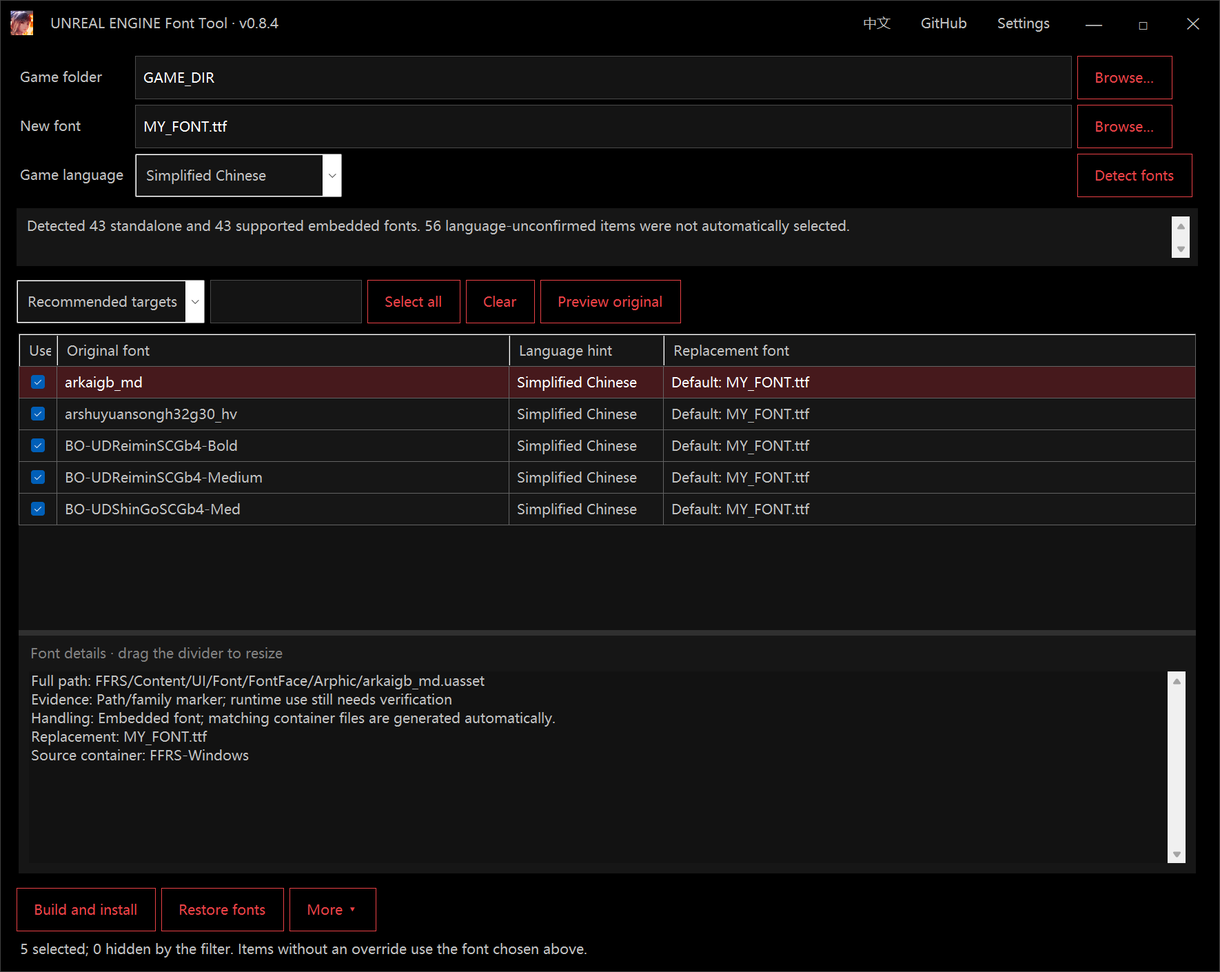
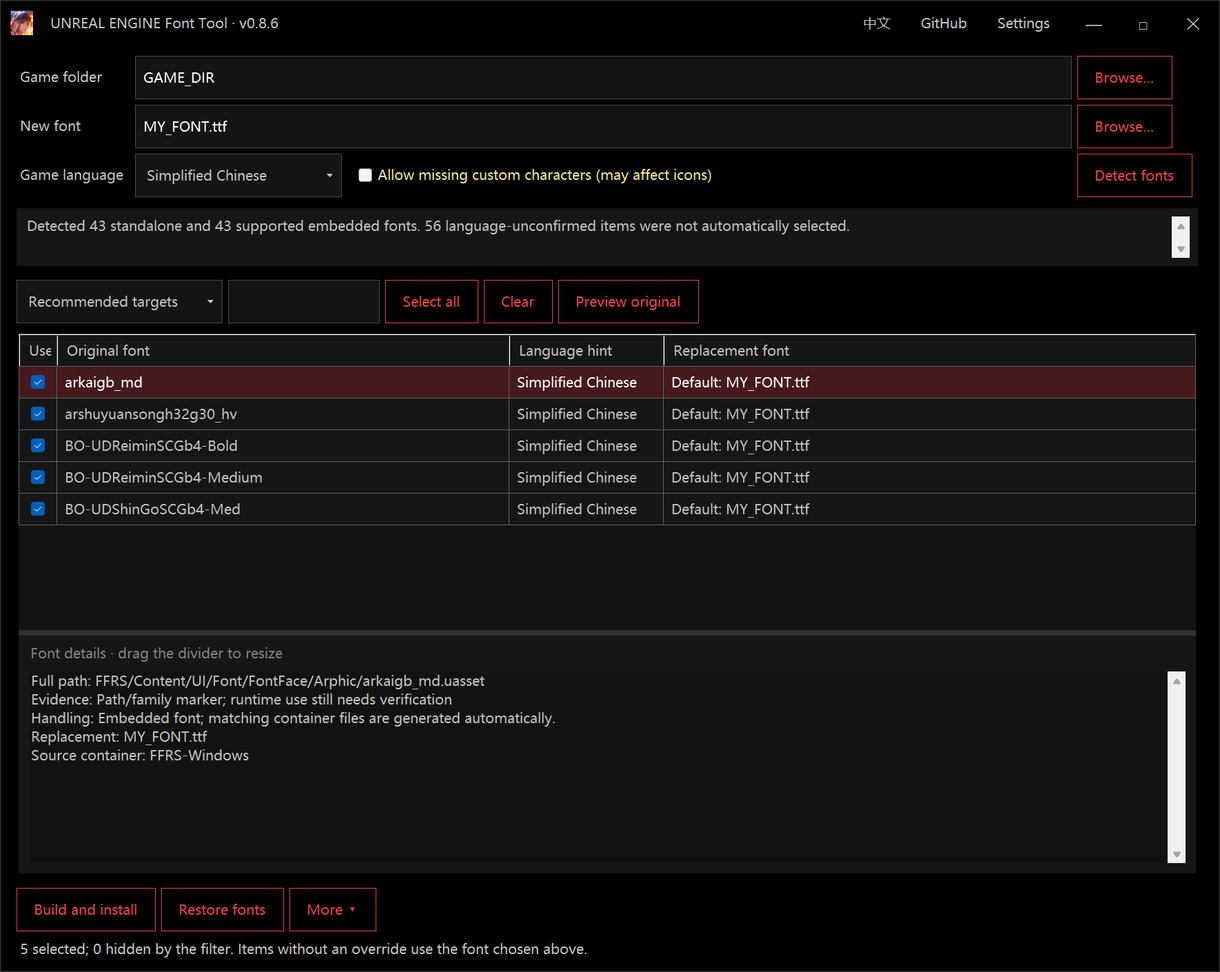
Expose beginner glyph-loss handling and unify dark dropdown controls

diff --git a/UEFontTool/GuidedLayout.cs b/UEFontTool/GuidedLayout.cs
@@ -31,7 +31,8 @@ public sealed partial class GuidedForm
         var inputs=new TableLayoutPanel{Dock=DockStyle.Fill,AutoSize=true,ColumnCount=3,RowCount=3,Margin=new Padding(0,0,0,8)};inputs.ColumnStyles.Add(new ColumnStyle(SizeType.AutoSize));inputs.ColumnStyles.Add(new ColumnStyle(SizeType.Percent,100));inputs.ColumnStyles.Add(new ColumnStyle(SizeType.AutoSize));
         for(int i=0;i<3;i++)inputs.RowStyles.Add(new RowStyle(SizeType.AutoSize));
         foreach(var label in new[]{gameLabel,fontLabel,langLabel}){label.AutoSize=true;label.Dock=DockStyle.None;label.Anchor=AnchorStyles.Left;label.Margin=new Padding(0,6,10,8);}
-        game.Dock=font.Dock=DockStyle.Fill;inputs.Controls.Add(gameLabel,0,0);inputs.Controls.Add(game,1,0);inputs.Controls.Add(gamePick,2,0);inputs.Controls.Add(fontLabel,0,1);inputs.Controls.Add(font,1,1);inputs.Controls.Add(fontPick,2,1);inputs.Controls.Add(langLabel,0,2);language.Width=300;language.Anchor=AnchorStyles.Left;inputs.Controls.Add(language,1,2);inputs.Controls.Add(analyze,2,2);root.Controls.Add(inputs,0,1);
+        game.Dock=font.Dock=DockStyle.Fill;inputs.Controls.Add(gameLabel,0,0);inputs.Controls.Add(game,1,0);inputs.Controls.Add(gamePick,2,0);inputs.Controls.Add(fontLabel,0,1);inputs.Controls.Add(font,1,1);inputs.Controls.Add(fontPick,2,1);inputs.Controls.Add(langLabel,0,2);language.Width=300;language.Anchor=AnchorStyles.Left;
+        var languageOptions=new FlowLayoutPanel{Dock=DockStyle.Fill,AutoSize=true,WrapContents=true,Margin=Padding.Empty};allowSymbols.Margin=new Padding(16,4,8,4);languageOptions.Controls.Add(language);languageOptions.Controls.Add(allowSymbols);inputs.Controls.Add(languageOptions,1,2);inputs.Controls.Add(analyze,2,2);root.Controls.Add(inputs,0,1);
         var statusPanel=new Panel{Dock=DockStyle.Fill,Padding=new Padding(12),BackColor=PanelColor,Margin=new Padding(0,4,0,8)};summary.Margin=Padding.Empty;statusPanel.Controls.Add(summary);root.Controls.Add(statusPanel,0,2);
         var toolbar=new FlowLayoutPanel{AutoSize=true,Dock=DockStyle.Fill,WrapContents=true,Margin=new Padding(0,8,0,8)};view.Width=260;search.Width=220;search.PlaceholderText=T("搜索字体","Search fonts");toolbar.Controls.AddRange(new Control[]{view,search,all,none,preview});root.Controls.Add(toolbar,0,3);
         grid.EnableHeadersVisualStyles=false;grid.ColumnHeadersDefaultCellStyle.BackColor=PanelColor;grid.ColumnHeadersDefaultCellStyle.ForeColor=Color.Silver;grid.DefaultCellStyle.BackColor=PanelColor;grid.DefaultCellStyle.ForeColor=Color.Silver;grid.DefaultCellStyle.SelectionBackColor=Color.FromArgb(70,25,28);grid.DefaultCellStyle.SelectionForeColor=Color.White;grid.DefaultCellStyle.WrapMode=DataGridViewTriState.True;
@@ -56,6 +57,7 @@ public sealed partial class GuidedForm
         int height=Math.Max(DeviceDpi*42/96,gamePick.Font.Height+16);
         foreach(var button in new[]{gamePick,fontPick,analyze,build,restoreFonts,moreActions,all,none,preview}){button.MinimumSize=new Size(button.MinimumSize.Width,height);button.Height=height;}
         foreach(var input in new[]{game,font,search}){input.MinimumSize=new Size(input.MinimumSize.Width,height);input.Height=height;}
+        allowSymbols.MinimumSize=new Size(0,height);
     }
     protected override void OnDpiChanged(DpiChangedEventArgs e){base.OnDpiChanged(e);if(Visible)AlignFieldHeights();}
     void ShowSettings()
@@ -64,15 +66,14 @@ public sealed partial class GuidedForm
         var table=new TableLayoutPanel{Dock=DockStyle.Fill,AutoScroll=true,Padding=new Padding(20),ColumnCount=2};table.ColumnStyles.Add(new ColumnStyle(SizeType.AutoSize));table.ColumnStyles.Add(new ColumnStyle(SizeType.Percent,100));dialog.Controls.Add(table);
         var input=Input();input.Text=key.Text;input.UseSystemPasswordChar=true;var versions=Combo();versions.Items.Add(T("自动检测","Automatic"));versions.Items.AddRange(GuideHints.EngineVersions);versions.SelectedIndex=engine.SelectedIndex;var name=Input();name.Text=modName.Text;
         var labels=zh?new[]{"AES 密钥（需要时）","引擎版本","输出名称"}:new[]{"AES key (if required)","Engine version","Mod name"};Control[] fields={input,versions,name};for(int i=0;i<3;i++){table.RowStyles.Add(new RowStyle(SizeType.AutoSize));var label=new Label{Text=labels[i],AutoSize=true,Anchor=AnchorStyles.Left,Margin=new Padding(0,6,12,8)};if(fields[i] is FontInput field)field.FieldName=labels[i];table.Controls.Add(label,0,i);fields[i].Dock=DockStyle.Fill;table.Controls.Add(fields[i],1,i);}
-        var risk=new CheckBox{Text=T("允许缺少特殊字符（可能影响图标）","Allow missing custom characters (may affect icons)"),Checked=allowSymbols.Checked,AutoSize=true,Margin=new Padding(0,10,0,10)};table.RowStyles.Add(new RowStyle(SizeType.AutoSize));table.Controls.Add(risk,0,3);table.SetColumnSpan(risk,2);
-        var note=new Label{Text=T("通常保持自动即可。密钥仅用于本次会话，不保存到文件。","Usually keep Automatic. Keys are session-only and are not saved."),AutoSize=true,MaximumSize=new Size(650,0)};table.RowStyles.Add(new RowStyle(SizeType.AutoSize));table.Controls.Add(note,0,4);table.SetColumnSpan(note,2);
-        var save=Button();save.Text=T("应用","Apply");table.RowStyles.Add(new RowStyle(SizeType.AutoSize));table.Controls.Add(save,1,5);save.Click+=(_,_)=>{try{PakTools.Keys(input.Text.Trim());IoStoreFonts.Name(name.Text.Trim());key.Text=input.Text.Trim();engine.SelectedIndex=versions.SelectedIndex;modName.Text=name.Text.Trim();allowSymbols.Checked=risk.Checked;dialog.DialogResult=DialogResult.OK;}catch(Exception ex){MessageBox.Show(dialog,ex.Message);}};dialog.AcceptButton=save;dialog.SetCaptionLanguage(zh);dialog.ShowDialog(this);input.Clear();
+        var note=new Label{Text=T("通常保持自动即可。密钥仅用于本次会话，不保存到文件。缺字选项位于主界面“游戏语言”右侧。","Usually keep Automatic. Keys are session-only. The character-loss option is beside Game language in the main window."),AutoSize=true,MaximumSize=new Size(650,0)};table.RowStyles.Add(new RowStyle(SizeType.AutoSize));table.Controls.Add(note,0,3);table.SetColumnSpan(note,2);
+        var save=Button();save.Text=T("应用","Apply");table.RowStyles.Add(new RowStyle(SizeType.AutoSize));table.Controls.Add(save,1,4);save.Click+=(_,_)=>{try{PakTools.Keys(input.Text.Trim());IoStoreFonts.Name(name.Text.Trim());key.Text=input.Text.Trim();engine.SelectedIndex=versions.SelectedIndex;modName.Text=name.Text.Trim();dialog.DialogResult=DialogResult.OK;}catch(Exception ex){MessageBox.Show(dialog,ex.Message);}};dialog.AcceptButton=save;dialog.SetCaptionLanguage(zh);dialog.ShowDialog(this);input.Clear();
     }
     ContextMenuStrip? ownedMoreMenu;
     ContextMenuStrip GetMoreMenu()
     {
         if(ownedMoreMenu!=null)return ownedMoreMenu;
-        var menu=new ContextMenuStrip{BackColor=Color.Black,ForeColor=Color.Silver,Font=Font,Renderer=new ToolStripProfessionalRenderer(new FontMenuColors())};ownedMoreMenu=menu;
+        var menu=new ContextMenuStrip{BackColor=Color.Black,ForeColor=Color.Silver,Font=Font,ShowImageMargin=false,ShowCheckMargin=false,Renderer=new ToolStripProfessionalRenderer(new FontMenuColors())};ownedMoreMenu=menu;
         void Add(Action action){menu.Items.Add("",null,(_,_)=>{if(!IsDisposed&&!Disposing)BeginInvoke(new Action(()=>{if(IsDisposed||Disposing)return;try{action();}catch(Exception ex){ReportFailure(ex,game.Text.Trim(),"more");}}));});}
         Add(()=>{installAfterBuild=false;Build();});Add(()=>{if(output!=null)Process.Start(new ProcessStartInfo(output){UseShellExecute=true});});Add(ShowDiagnostics);Add(()=>ChooseFont(p=>{foreach(var t in targets.Where(t=>t.Selected))t.FontOverride=p;Fill();}));Add(()=>{foreach(var t in targets.Where(t=>t.Selected))t.FontOverride=null;Fill();});Add(()=>{using var form=new MainForm();form.ShowDialog(this);});
         return menu;

diff --git a/UEFontTool/GuidedForm.cs b/UEFontTool/GuidedForm.cs
@@ -28,10 +28,10 @@ public sealed partial class GuidedForm : DarkWindow
     void ChooseFont(Action<string> apply){using var d=new OpenFileDialog{Filter="TTF / OTF|*.ttf;*.otf"};if(d.ShowDialog(this)==DialogResult.OK)apply(d.FileName);}
     void Localize()
     {
-        filling=true;int l=language.SelectedIndex<0?0:language.SelectedIndex,v=view.SelectedIndex<0?0:view.SelectedIndex;language.Items.Clear();language.Items.AddRange(zh?new object[]{"简体中文","繁體中文","英文"}:new object[]{"Simplified Chinese","Traditional Chinese","English"});language.SelectedIndex=l;view.Items.Clear();view.Items.AddRange(zh?new object[]{"推荐替换项","全部游戏字体","语言待确认","引擎 / 回退字体"}:new object[]{"Recommended targets","All game fonts","Language unconfirmed","Engine / fallback fonts"});view.SelectedIndex=v;view.Width=Math.Max(230,view.Items.Cast<string>().Max(text=>TextRenderer.MeasureText(text,view.Font).Width)+40);view.DropDownWidth=view.Width;filling=false;
+        filling=true;int l=language.SelectedIndex<0?0:language.SelectedIndex,v=view.SelectedIndex<0?0:view.SelectedIndex;language.Items.Clear();language.Items.AddRange(zh?new object[]{"简体中文","繁體中文","英文"}:new object[]{"Simplified Chinese","Traditional Chinese","English"});language.SelectedIndex=l;view.Items.Clear();view.Items.AddRange(zh?new object[]{"推荐替换项","全部游戏字体","语言待确认","引擎 / 回退字体"}:new object[]{"Recommended targets","All game fonts","Language unconfirmed","Engine / fallback fonts"});view.SelectedIndex=v;view.Width=Math.Max(250,view.Items.Cast<string>().Max(text=>TextRenderer.MeasureText(text,view.Font).Width)+Math.Max(64,DeviceDpi*44/96));view.DropDownWidth=view.Width;filling=false;
         SetCaptionLanguage(zh);detailsHeading.Text=T("字体详情 · 拖动上方分隔条可调整高度","Font details · drag the divider to resize");search.PlaceholderText=T("搜索字体","Search fonts");languageMenu.Text=T("English","中文");gameLabel.Text=T("游戏目录","Game folder");fontLabel.Text=T("新字体","New font");langLabel.Text=T("游戏语言","Game language");game.FieldName=gameLabel.Text;font.FieldName=fontLabel.Text;search.FieldName=T("搜索字体","Search fonts");gamePick.Text=fontPick.Text=T("浏览…","Browse…");analyze.Text=T("检测字体","Detect fonts");settingsMenu.Text=T("设置","Settings");restoreFonts.Text=T("还原字体","Restore fonts");moreActions.Text=T("更多操作 ▾","More ▾");
         all.Text=T("全选","Select all");none.Text=T("清空","Clear");build.Text=T("生成并安装","Build and install");
-        allowSymbols.Text=T("允许缺少特殊字形（可能影响图标）","Allow missing custom symbols (may affect icons)");preview.Text=T("预览原字体","Preview original");string[] headers=zh?new[]{"✓","原字体名称","语言识别","处理方式","将使用的新字体"}:new[]{"Use","Original font","Language hint","Handling","Replacement font"};for(int i=0;i<headers.Length;i++)grid.Columns[i].HeaderText=headers[i];grid.Columns[2].Width=zh?185:Math.Max(220,TextRenderer.MeasureText("Traditional Chinese",grid.Font).Width+32);if(Visible)AlignFieldHeights();RefreshSummary();Fill();
+        allowSymbols.Text=T("允许缺少特殊字符（可能影响图标）","Allow missing custom characters (may affect icons)");preview.Text=T("预览原字体","Preview original");string[] headers=zh?new[]{"✓","原字体名称","语言识别","处理方式","将使用的新字体"}:new[]{"Use","Original font","Language hint","Handling","Replacement font"};for(int i=0;i<headers.Length;i++)grid.Columns[i].HeaderText=headers[i];grid.Columns[2].Width=zh?185:Math.Max(220,TextRenderer.MeasureText("Traditional Chinese",grid.Font).Width+32);if(Visible)AlignFieldHeights();RefreshSummary();Fill();
     }
     void InvalidateAnalysis(){if(busy)return;scan=null;targets.Clear();cookedFolder=null;detectedVersion=null;hasAnalyzed=false;partial=false;problem=null;diagnosticText="";engineNote.Text="";allowSymbols.Checked=false;output=null;Fill();RefreshSummary();}
     void MarkAlternatives(){var embedded=targets.Where(t=>t.Inline).Select(t=>Path.ChangeExtension(t.Path,null)).ToHashSet(StringComparer.OrdinalIgnoreCase);foreach(var t in targets)t.AlternativeData=!t.Inline&&embedded.Contains(Path.ChangeExtension(t.Path,null));}
@@ -56,7 +56,7 @@ public sealed partial class GuidedForm : DarkWindow
         if(busy)return;summary.ForeColor=problem!=null?Color.Khaki:Color.Silver;summary.Text=problem??(!hasAnalyzed?T("选择游戏和新字体，再点击“检测字体”。文件格式由工具自动处理。","Choose a game and font, then Detect fonts. Packaging is automatic."):T($"已检测：{targets.Count(t=>!t.Inline)} 项普通字体，{targets.Count(t=>t.Inline)} 项可处理的封装字体。{targets.Count(t=>!t.Engine&&t.Language.Languages==Languages.None)} 项语言待确认（未自动勾选）。",$"Detected {targets.Count(t=>!t.Inline)} standalone and {targets.Count(t=>t.Inline)} supported embedded fonts. {targets.Count(t=>!t.Engine&&t.Language.Languages==Languages.None)} language-unconfirmed items were not automatically selected.")+(partial?Environment.NewLine+T("部分资源未能识别，请在“更多操作”查看检测详情。","Some resources were not inspected; see More → Detection details."):""));
         if(problem==null&&hasAnalyzed&&!targets.Any(t=>t.Recommended))summary.Text=T("未找到当前语言的可靠推荐。请切换“语言待确认”预览原字体，或查看“全部游戏字体”；有些游戏简繁共用，需手动确认。","No reliable recommendations for this language. Review Language unconfirmed or All game fonts and preview originals; some games share Chinese fonts.")+(partial?Environment.NewLine+T("另有部分资源未能识别，请查看检测详情。","Some resources could not be inspected; see Detection details."):"");
     }
-    void SetBusy(bool value){busy=value;UseWaitCursor=value;languageMenu.Enabled=githubMenu.Enabled=settingsMenu.Enabled=!value;foreach(var c in new Control[]{game,font,gamePick,fontPick,language,analyze,advancedToggle,advanced,view,search,all,none,grid,custom,reset,toggleLanguage,preview,restoreFonts,moreActions})c.Enabled=!value;UpdateSelection();}
+    void SetBusy(bool value){busy=value;UseWaitCursor=value;languageMenu.Enabled=githubMenu.Enabled=settingsMenu.Enabled=!value;foreach(var c in new Control[]{game,font,gamePick,fontPick,language,allowSymbols,analyze,advancedToggle,advanced,view,search,all,none,grid,custom,reset,toggleLanguage,preview,restoreFonts,moreActions})c.Enabled=!value;UpdateSelection();}
     async void PreviewOriginal()
     {
         if(busy||scan==null||grid.CurrentRow?.Tag is not GuideTarget target){details.Text=T("请先检测字体，再点击列表中的一项。","Analyze first, then click a font in the list.");return;}

diff --git a/UEFontTool/GuidedOperations.cs b/UEFontTool/GuidedOperations.cs
@@ -36,8 +36,8 @@ public sealed partial class GuidedForm
     {
         string Redact(string value)=>System.Text.RegularExpressions.Regex.Replace(value,@"(?i)(?:0x)?(?<!\w)[a-f0-9]{64}(?!\w)","[redacted]");
         diagnosticText=Redact($"{DateTimeOffset.Now:O}\r\nGame: {root}\r\nPhase: {phase}\r\n\r\n{error}");
-        summary.Text=error.Message.Contains("private-use",StringComparison.OrdinalIgnoreCase)?T("新字体缺少特殊字符。请换字体，或在“设置”确认允许缺失后重试。","Custom characters are missing. Choose another font or explicitly allow the loss in Settings."):T("操作未完成：","Operation incomplete: ")+Redact(error.Message).Split(new[]{'\r','\n'},StringSplitOptions.RemoveEmptyEntries).FirstOrDefault();
-        problem=summary.Text;summary.ForeColor=Color.Khaki;detailsHeading.Text=T("本次操作错误 · 完整详情","Operation error · full details");details.Text=diagnosticText;
+        summary.Text=error is PrivateUseGlyphLossException missing?T($"{missing.FontName}：新字体缺少 {missing.Codepoints.Length} 个特殊字符。无需专家模式；可取消此项、换字体，或勾选“游戏语言”右侧的“允许缺少特殊字符”后重试。",$"{missing.FontName}: {missing.Codepoints.Length} custom characters are missing. No Expert mode required: uncheck it, choose another font, or allow the loss beside Game language."):error.Message.Contains("private-use",StringComparison.OrdinalIgnoreCase)?T("新字体缺少特殊字符。无需专家模式；可取消该项、换字体，或勾选“游戏语言”右侧的“允许缺少特殊字符”后重试。","Custom characters are missing. No Expert mode required: uncheck this target, choose another font, or allow the loss beside Game language."):T("操作未完成：","Operation incomplete: ")+Redact(error.Message).Split(new[]{'\r','\n'},StringSplitOptions.RemoveEmptyEntries).FirstOrDefault();
+        problem=summary.Text;summary.ForeColor=Color.Khaki;detailsHeading.Text=error is PrivateUseGlyphLossException?T("缺字处理 · 无需专家模式","Missing characters · no Expert mode required"):T("本次操作错误 · 完整详情","Operation error · full details");details.Text=error is PrivateUseGlyphLossException?error.Message:diagnosticText;
         try{Directory.CreateDirectory(FontService.DataRoot);File.WriteAllText(Path.Combine(FontService.DataRoot,"last-error.txt"),diagnosticText);}catch(IOException){}catch(UnauthorizedAccessException){}
     }
     internal async Task<bool> TestBuildWorkflow(string root,string replacement,string report,bool allowSymbolLoss)
@@ -45,5 +45,10 @@ public sealed partial class GuidedForm
         game.Text=root;font.Text=replacement;await AnalyzeAsync();allowSymbols.Checked=allowSymbolLoss;installAfterBuild=true;await BuildAsync();
         bool success=problem==null&&output!=null;
         File.WriteAllText(report,System.Text.Json.JsonSerializer.Serialize(new{Success=success,Output=output,Message=summary.Text,Error=diagnosticText},FontService.Json));return success;
+    }
+    internal void CheckCoverageGuidance()
+    {
+        allowSymbols.Checked=false;var error=new PrivateUseGlyphLossException("Game/Content/Font/TestFace.uasset",new[]{0xe001,0xe000});ReportFailure(error,"SYNTHETIC_GAME","build");
+        if(allowSymbols.Checked||!summary.Text.Contains("TestFace")||!summary.Text.Contains("2")||!details.Text.Contains("U+E000")||!details.Text.Contains("游戏语言")||!details.Text.Contains("No Expert mode required"))throw new Exception("Coverage failures must explain the target, count, missing codepoints and beginner choices without silently allowing loss.");
     }
 }

diff --git a/UEFontTool/GuideBuild.cs b/UEFontTool/GuideBuild.cs
@@ -1,4 +1,4 @@
-using System.Text.Json;
+using System.Text.Json;
 
 namespace UEFontTool;
 
@@ -34,7 +34,7 @@ public static class GuideBuild
             File.WriteAllText(Path.Combine(destination,"result.json"),JsonSerializer.Serialize(new{Game=Path.GetFullPath(game),Name=name,Artifacts=artifacts,Targets=selected.Select(t=>new{t.Path,t.Inline,Font=t.FontOverride??defaultFont}),RuntimeVerified=false},FontService.Json));
         }
         catch(InvalidDataException ex) when(ex.Message.Contains("private-use",StringComparison.OrdinalIgnoreCase))
-        {throw new InvalidDataException("新字体缺少原字体中的特殊符号。为避免按键图标等变成方框，已停止生成。请在列表取消该字体，或换用覆盖更完整的新字体。专家模式可查看详细缺字。 / Replacement loses private-use symbols; build stopped to protect possible icons. Uncheck that target or choose a more complete font.\r\n"+ex.Message);}
+        {throw new InvalidDataException("新字体缺少特殊字符，已停止生成。无需专家模式：取消该字体、换用覆盖更完整的新字体，或勾选“游戏语言”右侧的“允许缺少特殊字符”后重试。允许缺失不会补字或保留原图标。 / Custom glyph loss blocked. No Expert mode required: keep this target unchanged, choose another font, or explicitly allow the loss beside Game language.\r\n"+ex.Message,ex);}
     }
     public static void MergeLoose(BuildManifest loose,string destination,string stage)
     {

diff --git a/UEFontTool/SelfTest.cs b/UEFontTool/SelfTest.cs
@@ -112,7 +112,7 @@ public static class SelfTest
             Assert(LanguageMap.Select(scan, Languages.Simplified, false).SetEquals(new[] { "font.ufont" }), "Remember selection overrides automatic language paths");
             LanguageMap.Forget(scan, Languages.Simplified);
             Assert(LanguageMap.Select(scan, Languages.Simplified, false).Contains("b1/Content/Fonts/Font_SC_Regular.ufont"), "Reset restores automatic language detection");
-            using(var guided=new GuidedForm(false)){guided.Show();Application.DoEvents();guided.CheckExperience(scan);Assert(true,"Guided UI: recommendations, unknown languages, hidden selections and explicit replacement fonts");guided.CheckMoreMenu();Assert(true,"More menu: close, modal detection details and repeated reopening do not dispose the active dropdown");}
+            using(var guided=new GuidedForm(false)){guided.Show();Application.DoEvents();guided.CheckExperience(scan);Assert(true,"Guided UI: recommendations, unknown languages, hidden selections and explicit replacement fonts");guided.CheckCoverageGuidance();Assert(true,"Coverage guidance identifies missing symbols and beginner options without enabling symbol loss");guided.CheckMoreMenu();Assert(true,"More menu: close, modal detection details and repeated reopening do not dispose the active dropdown");}
             using(var input=new FontInput())
             {
                 int edits=0;input.TextChanged+=(_,_)=>edits++;input.Text="test-font.ttf";input.UseSystemPasswordChar=true;

diff --git a/UEFontTool/FontInput.cs b/UEFontTool/FontInput.cs
@@ -47,4 +47,15 @@ public sealed class FontCombo : ComboBox
         var bounds=e.Bounds;bounds.Inflate(-8,0);string value=(e.Index>=0?GetItemText(Items[e.Index]):Text)??"";
         TextRenderer.DrawText(e.Graphics,value,Font,bounds,ForeColor,TextFormatFlags.Left|TextFormatFlags.VerticalCenter|TextFormatFlags.NoPrefix);
     }
+    protected override void WndProc(ref Message m)
+    {
+        base.WndProc(ref m);
+        if(!IsHandleCreated||m.Msg is not (0xF or 0x317 or 0x318))return;
+        using var graphics=m.Msg is 0x317 or 0x318&&m.WParam!=IntPtr.Zero?Graphics.FromHdc(m.WParam):Graphics.FromHwnd(Handle);
+        using var background=new SolidBrush(BackColor);graphics.FillRectangle(background,ClientRectangle);
+        int arrowWidth=Math.Max(24,DeviceDpi*24/96);var textBounds=new Rectangle(12,0,Math.Max(1,Width-arrowWidth-20),Height);
+        TextRenderer.DrawText(graphics,Text,Font,textBounds,Enabled?ForeColor:Color.Gray,TextFormatFlags.Left|TextFormatFlags.VerticalCenter|TextFormatFlags.NoPrefix);
+        using var border=new Pen(Focused?Color.IndianRed:Color.FromArgb(75,75,75));graphics.DrawRectangle(border,0,0,Width-1,Height-1);
+        int x=Width-arrowWidth/2,y=Height/2;using var arrow=new SolidBrush(Enabled?ForeColor:Color.Gray);graphics.FillPolygon(arrow,new[]{new Point(x-4,y-2),new Point(x+4,y-2),new Point(x,y+3)});
+    }
 }

diff --git a/UEFontTool/PrivateUseGlyphLossException.cs b/UEFontTool/PrivateUseGlyphLossException.cs
@@ -1,0 +1,11 @@
+namespace UEFontTool;
+
+public sealed class PrivateUseGlyphLossException : IOException
+{
+    public string Target {get;}
+    public int[] Codepoints {get;}
+    public string FontName=>Path.GetFileNameWithoutExtension(Target);
+    public PrivateUseGlyphLossException(string target,int[] codepoints):base(Describe(target,codepoints))
+    {Target=target;Codepoints=codepoints.Distinct().Order().ToArray();}
+    static string Describe(string target,int[] codepoints)=>$"{Path.GetFileNameWithoutExtension(target)}: 新字体缺少 {codepoints.Distinct().Count()} 个私用区字符 / Replacement loses {codepoints.Distinct().Count()} private-use glyphs.\r\n无需专家模式：取消此字体、换用覆盖更完整的新字体，或勾选“游戏语言”右侧的“允许缺少特殊字符”后重试。\r\nNo Expert mode required: uncheck this target, choose a more complete font, or check Allow missing custom characters beside Game language and retry.\r\n允许缺失不会补字或保留原图标；这些字符可能是图标或其他自定义字符。 / Allowing loss does not merge glyphs or preserve icons.\r\n"+string.Join(" ",codepoints.Distinct().Order().Select(c=>$"U+{c:X}"));
+}

diff --git a/UEFontTool/FontService.cs b/UEFontTool/FontService.cs
@@ -213,7 +213,7 @@ public static class FontService
                 prefixed[target] = prefixed.GetValueOrDefault(target) || inspected.Base != 0;
                 var missing = inspected.Map.Except(targetFont.Map).ToArray();
                 manifest.MissingCodepoints[target]=missing.Select(c=>$"U+{c:X}").ToArray();
-                if(protectPrivateUse && missing.Any(CookedFonts.IsPrivateUse)) throw new InvalidDataException("Replacement loses private-use glyphs; keep original or explicitly allow the loss: "+target);
+                if(protectPrivateUse && missing.Any(CookedFonts.IsPrivateUse)) throw new PrivateUseGlyphLossException(target,missing.Where(CookedFonts.IsPrivateUse).ToArray());
                 int cjk = missing.Count(c => c is >= 0x3400 and <= 0x9fff or >= 0x20000 and <= 0x323af);
                 manifest.VerifiedOriginals.Add(new(target, source.Pak, inspected.Info, missing.Length, cjk));
                 log($"字符覆盖差异 / Coverage difference: {missing.Length}; 汉字 / CJK: {cjk}（不代表游戏实际使用这些字 / actual game usage unknown）");

diff --git a/UEFontTool/CookedFonts.cs b/UEFontTool/CookedFonts.cs
@@ -117,7 +117,7 @@ public static class CookedFonts
             var originalFont=external?new SfntFont(externalOriginal!):face!.Value.Font;
             var missing = originalFont.Codepoints.Except(newFont.Codepoints).ToArray();
             var icons = missing.Where(IsPrivateUse).ToArray();
-            if (icons.Length > 0 && !allowPrivateUseLoss) throw new InvalidDataException($"{e.ObjectName}: replacement loses {icons.Length} private-use glyphs; keep original or explicitly allowPrivateUseLoss.");
+            if (icons.Length > 0 && !allowPrivateUseLoss) throw new PrivateUseGlyphLossException(source,icons);
             byte[] rewritten;
             if(external)rewritten=InlineExternal(data,version,replacement);
             else

diff --git a/UEFontTool/DarkWindow.cs b/UEFontTool/DarkWindow.cs
@@ -52,4 +52,8 @@ public sealed class FontMenuColors : ProfessionalColorTable
     public override Color MenuBorder=>Color.FromArgb(50,50,50);
     public override Color MenuStripGradientBegin=>Color.Black;
     public override Color MenuStripGradientEnd=>Color.Black;
+    public override Color ToolStripDropDownBackground=>Color.Black;
+    public override Color ImageMarginGradientBegin=>Color.Black;
+    public override Color ImageMarginGradientMiddle=>Color.Black;
+    public override Color ImageMarginGradientEnd=>Color.Black;
 }

diff --git a/README.en.md b/README.en.md
@@ -24,7 +24,7 @@ Download `UEFontTool-vVERSION-win-x64.zip` from **Releases**, extract the comple
 
 **Different fonts for different targets?** Check targets and use **More → Choose another font for checked items**. **Use default for checked items** removes the override. Select all/Clear affect only the current filter; hidden selections are counted below. Engine fallback fonts are excluded from recommendations.
 
-**Advanced controls?** **Settings** contains masked AES input, engine-version overrides, mod names and the explicit allow-custom-character-loss option. Version detection is automatic where possible. **More** offers Build only, output folder, detection details and Expert tools. The older dedicated expert builder still builds only; use the default interface for automated installation/restoration.
+**Advanced controls?** **Settings** contains masked AES input, engine-version overrides and mod names. The unchecked-by-default **Allow missing custom characters** option is beside **Game language** in the main window. Version detection is automatic where possible. **More** offers Build only, output folder, detection details and Expert tools. The older dedicated expert builder still builds only; use the default interface for automated installation/restoration.
 
 Language switching, GitHub and Settings sit in the title bar immediately before the minimize/maximize/close controls. The icon sits beside the window title, without a duplicate content heading. The black title bar retains minimize, maximize/restore, close, dragging and edge resizing. Inputs and buttons share a height. Drag the list/details divider to resize the information area; long details wrap and scroll. On smaller windows, content scrolls while build/install/restore actions remain visible.
 
@@ -36,7 +36,7 @@ Pinned retoc v0.1.5 and UAssetAPI 1.1.0 perform IoStore → legacy → FontFace 
 
 v0.8 fixes FFRS producing only a PAK: some sampled FontFace resources originally reference external `.ufont` data. Replacing that byte file alone did not override this loading path. The tool now recognizes the observed UE5.6 unversioned layout, checks coverage against the original external font, sets Inline loading policy and embeds the replacement before generating the complete container group. Conversion is limited to validated layouts; other native layouts are not guessed.
 
-Private-use character loss is blocked by default. These characters may be button icons or other custom symbols. Choose a more complete replacement, uncheck the target, or explicitly allow the loss in **Settings**. **Allowing loss does not add missing glyphs or preserve original icon outlines.** Missing codepoints are recorded. Ordinary missing CJK characters are reported, not merged.
+Private-use character loss is blocked by default. These characters may be button icons or other custom symbols. Choose a more complete replacement, uncheck the target, or explicitly check **Allow missing custom characters** beside **Game language**, without Expert mode. **Allowing loss does not add missing glyphs or preserve original icon outlines.** Missing codepoints are shown and recorded. Ordinary missing CJK characters are reported, not merged.
 
 ## Tested scope and limitations
 
@@ -51,6 +51,8 @@ Private-use character loss is blocked by default. These characters may be button
 
 Original mods in both test games were restored and checked against SHA-256 snapshots after testing. Runtime confirmations cover the sampled builds and selected fonts, not every menu, subtitle, icon or game version.
 
+**Inline support is neither universal nor FFRS-only.** Existing inline FontFace rewriting was verified in CodeVein2 (UE5.4); external-to-inline conversion currently targets only the observed FFRS UE5.6 layout. Other games must have parseable resources, a supported native layout and a verified container roundtrip. The engine-version dropdown lists parser parameters, not certified support for every font format in those versions.
+
 Supported layouts include bounded terminal SFNT arrays, the observed four-byte zero suffix, and the UE5.6 external FontFace layout above. External `.ubulk/.uptnl` rewriting, arbitrary native serialization layouts, offline atlases, TTC replacement, automatic icon merging and missing-glyph generation remain unsupported. **Universal UE4/UE5 compatibility is not guaranteed.**
 
 Details include static imports, font classes and selected/candidate containers. Static references do not prove runtime widget use; retoc's selected source does not guarantee an extra loader's mount order. Composite properties are exported when version/mappings permit; the expert window accepts a matching `.usmap`. Unresolved character ranges and fallback relationships still need review. Default embedded extraction filters paths containing `Font`; full-game UI reference traversal is not implemented.
@@ -64,6 +66,10 @@ Restore checks surviving tool files and suspended backups before making changes.
 Operation failures show their cause and full details in the main information area and More → Detection details. The latest error is saved to `data/last-error.txt` with key-shaped data redacted. Local paths remain; review before sharing.
 
 ## Troubleshooting
+
+### Does missing-character protection require Expert mode?
+
+No. The information area identifies the target, private-use character count and codepoints. Uncheck that target, choose a different replacement for it, or explicitly check Allow missing custom characters beside Game language and retry. Private-use characters may be icons or custom glyphs; allowing loss does not generate or merge glyphs. For FFRS, use the default guided container workflow; the legacy expert PAK scanner does not replace it.
 
 ### AES input / DragonSword V0 or magic errors
 
@@ -98,7 +104,7 @@ dotnet build UEFontTool/UEFontTool.csproj -c Release
 dotnet UEFontTool/bin/Release/net8.0-windows/UEFontTool.dll --self-test test-results.txt
 ```
 
-Automated tests use synthetic archives, system fonts and test-only keys; no game is needed. Main pushes, PRs and manual Actions runs build/test and upload artifacts. A `v*` tag matching the project version, such as `v0.8.5`, publishes to GitHub Releases. The workflow uses `GITHUB_TOKEN`; personal tokens and SSH private keys do not belong in source control.
+Automated tests use synthetic archives, system fonts and test-only keys; no game is needed. Main pushes, PRs and manual Actions runs build/test and upload artifacts. A `v*` tag matching the project version, such as `v0.8.6`, publishes to GitHub Releases. The workflow uses `GITHUB_TOKEN`; personal tokens and SSH private keys do not belong in source control.
 
 ## Command line
 

diff --git a/README.md b/README.md
@@ -24,7 +24,7 @@ Windows 桌面工具：检测虚幻引擎游戏中的字体，查看语言提示
 
 **不同项目使用不同字体？** 在列表勾选目标，使用 **更多操作 → 为勾选项单独选新字体**。选择“勾选项恢复默认字体”可取消单独设置。全选、清空只影响当前筛选结果，隐藏的选择会在下方计数。Engine 回退字体默认不推荐。
 
-**高级参数在哪里？** 顶部 **设置**中可直接粘贴 AES、手动选择引擎版本、设置输出名称及允许缺少特殊字符。默认自动检测版本；无法确定时才需手选。**更多操作**提供仅生成、打开输出目录、检测详情和专家工具。专家窗口的旧式专用构建仍只生成；自动安装和还原使用默认新手界面。
+**高级参数在哪里？** 顶部 **设置**中可直接粘贴 AES、手动选择引擎版本及设置输出名称。“允许缺少特殊字符”位于主界面 **游戏语言**右侧，默认不勾选。默认自动检测版本；无法确定时才需手选。**更多操作**提供仅生成、打开输出目录、检测详情和专家工具。专家窗口的旧式专用构建仍只生成；自动安装和还原使用默认新手界面。
 
 标题栏在最小化、最大化和关闭控件左侧并排提供语言切换、GitHub 和设置；图标位于软件标题左侧，内容区不再重复大标题。窗口使用全黑标题栏，保留最小化、最大化/还原、关闭、拖动及边缘缩放。输入框与按钮统一高度；列表与字体详情之间的分隔条可拖动，长信息可换行和滚动。窗口较小时，内容区支持滚动，底部生成、安装和还原操作保持可见。
 
@@ -36,7 +36,7 @@ Windows 桌面工具：检测虚幻引擎游戏中的字体，查看语言提示
 
 v0.8 修复 FFRS 只输出 PAK 的问题：该样本的部分 FontFace 原本引用外部 `.ufont`，仅换字节文件不足以覆盖这条加载路径。现在识别实测 UE5.6 未版本化布局，读取原始外部字体进行覆盖分析，设置 Inline 加载策略并把新字体写入 FontFace，再生成完整容器组。只对已验证布局转换，其他布局不会猜测改写。
 
-默认保护新字体缺少的私用区字符。它们可能是按键图标，也可能是自定义字符。构建因此停止时，可以换覆盖更完整的字体、取消对应目标，或在 **设置**明确允许缺失后重试。**允许缺失不会补字，也不会保留原图标轮廓**。缺失码点记录在构建清单中；普通 CJK 缺字会报告，不自动合并。
+默认保护新字体缺少的私用区字符。它们可能是按键图标，也可能是自定义字符。构建因此停止时，可以换覆盖更完整的字体、取消对应目标，或勾选 **游戏语言**右侧的 **允许缺少特殊字符**后重试，无需专家模式。**允许缺失不会补字，也不会保留原图标轮廓**。缺失码点记录在提示和构建清单中；普通 CJK 缺字会报告，不自动合并。
 
 ## 实测范围与限制
 
@@ -51,6 +51,8 @@ v0.8 修复 FFRS 只输出 PAK 的问题：该样本的部分 FontFace 原本引
 
 测试安装后，已用 SHA-256 核对两款测试游戏的原有 MOD 恢复。游戏内确认仅覆盖此次样本和选中字体，不代表全部菜单、字幕、图标和游戏版本都已覆盖。
 
+**内联支持并非覆盖所有游戏，也不只限 FFRS。** 已有内联 FontFace 的替换在 CodeVein2（UE5.4）实测；外部 FontFace 转内联目前仅适配 FFRS 所用的特定 UE5.6 布局。其他游戏须同时满足资源可解析、FontFace 布局受支持及容器往返校验通过。引擎版本下拉框只是解析参数列表，不代表各版本的全部字体格式都已兼容。
+
 当前支持有边界的终端 SFNT 字节数组，包括实测四字节零尾部，以及上述 UE5.6 外部 FontFace 布局。尚不支持外部 `.ubulk/.uptnl` 重写、任意原生序列化布局、离线字体图集、TTC 替换、自动图标合并和补字，**不能保证所有 UE4/UE5 游戏兼容**。
 
 详情包含静态导入引用、字体类、来源容器及候选版本；静态引用不证明某个运行时菜单实际使用该字体。retoc 选择的资源也不保证与额外加载器的挂载顺序相同。复合字体属性仅在版本/映射允许解析时导出；专家窗口可选择匹配的 `.usmap`。未解析的字符范围与回退关系仍需人工确认。默认只分析路径包含 `Font` 的封装资源，尚未遍历全游戏 UI 引用。
@@ -64,6 +66,10 @@ v0.8 修复 FFRS 只输出 PAK 的问题：该样本的部分 FontFace 原本引
 操作失败时，主信息区会直接显示原因与完整详情，“更多操作 → 查看检测详情”也可查看。最近一次错误保存在 `data/last-error.txt`，密钥形态的数据会脱敏；报告仍含本机路径，分享前请检查。
 
 ## 常见问题
+
+### 缺少特殊字符必须去专家模式吗？
+
+不需要。信息区会显示目标字体、缺少的私用区字符数量和码点。可取消该目标、为它换用另一字体，或在“游戏语言”右侧勾选“允许缺少特殊字符”后重试。私用区字符可能是图标或自定义字；允许缺失不会自动补字或合并原字形。FFRS 请使用默认新手流程生成完整容器组，专家模式的旧 PAK 扫描窗口不能替代此流程。
 
 ### AES 怎么输入？DragonSword 为什么仍报 V0 / magic 错误？
 
@@ -98,7 +104,7 @@ dotnet build UEFontTool/UEFontTool.csproj -c Release
 dotnet UEFontTool/bin/Release/net8.0-windows/UEFontTool.dll --self-test test-results.txt
 ```
 
-自动测试使用合成包、系统字体和测试密钥，不需要游戏。`main` 推送、PR 或手动 Actions 会构建、测试并上传产物；推送与项目版本一致的 `v*` 标签（如 `v0.8.5`）会发布至 GitHub Releases。流水线使用 `GITHUB_TOKEN`，不需要提交个人令牌或 SSH 私钥。
+自动测试使用合成包、系统字体和测试密钥，不需要游戏。`main` 推送、PR 或手动 Actions 会构建、测试并上传产物；推送与项目版本一致的 `v*` 标签（如 `v0.8.6`）会发布至 GitHub Releases。流水线使用 `GITHUB_TOKEN`，不需要提交个人令牌或 SSH 私钥。
 
 ## 命令行
 
